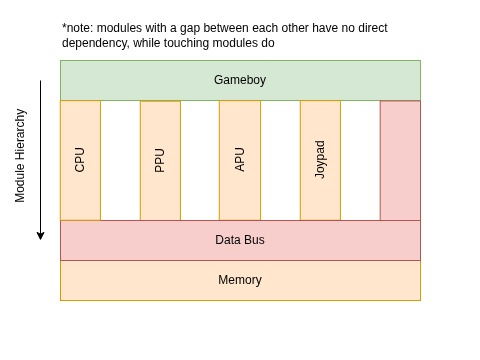
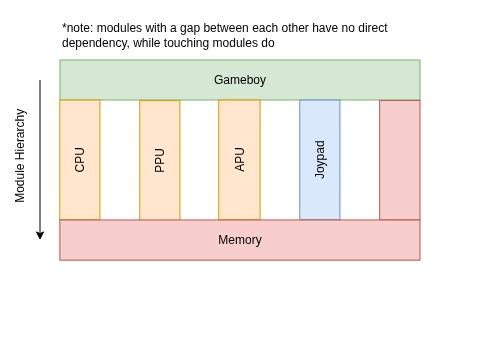
Corrected software architecture

diff --git a/_posts/2026-02-15-firststeps.md b/_posts/2026-02-15-firststeps.md
@@ -50,6 +50,6 @@ This leaves us with the above architecture.
 
 I've designed this so that the Gameboy module will act as a sort of Control class, containing all of the other modules and orchestrating their operation.
 
-Each of the components will exist independent to each other, with no direct dependency to another component aside from the data bus. This way, one module cannot directly interact with or modify another, and must rely on passing data through the bus to memory for another module to pick up, resulting in a much safer design. I've also grouped all memory regions into a singular Memory module to keep things clean.
+Each of the components will exist independent to each other, with no direct dependency to another component aside from memory. This way, one module cannot directly interact with or modify another, and must rely on passing data to memory for another module to pick up, resulting in a much safer design. I've also grouped all memory regions into a singular Memory module to keep things clean.
 
 Keep in mind that this is only an initial design, and is subject to change as complexities arise over the course of development.
